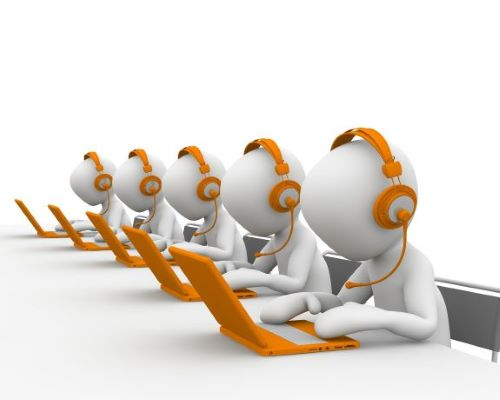
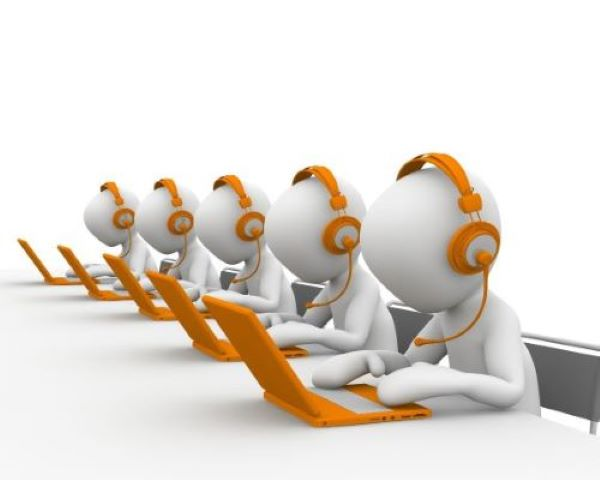
more changes

diff --git a/index.html b/index.html
@@ -144,7 +144,7 @@
                     </div>
                     <div class="col-lg-4 col-sm-6">
                         <a class="portfolio-box" href="assets/img/portfolio/fullsize/5.jpg">
-                            <img class="img-fluid" src="imgs/optimized cyber-security new.jpg" alt="" />
+                            <img class="img-fluid" src="imgs/optimized call-center-new.jpg" alt="" />
                             <div class="portfolio-box-caption">
                                 <div class="project-category text-white-50">Category</div>
                                 <div class="project-name">Project Name</div>
